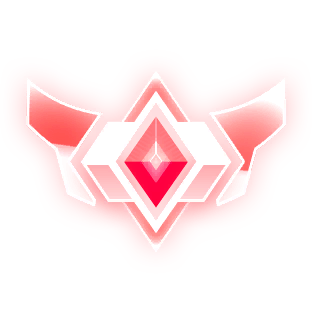
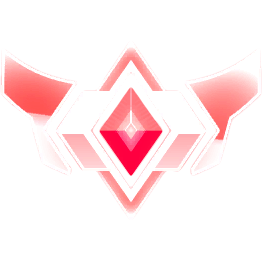
Returning online games for last two days to web page JS
Returning online games for last two days to web page JS
Updated MMR chart to show Rank Div Level
Updated icons / assets to better quality
Fixed JS methods that should be properties (getters) to make them such

Resolves #17
Resolves #14
Resolves #15

Changed region(s): [[0.0, 0.1832, 1.0, 0.8244]]

diff --git a/app/static/model.js b/app/static/model.js
@@ -8,32 +8,137 @@ const GameState = {
     'GAME_ENDED': 2
 }
 
-const RankTier = {
-    22: 'Supersonic Legend',
-    21: 'GrandChamp III',
-    20: 'GrandChamp II',
-    19: 'GrandChamp I',
-    18: 'Champ III',
-    17: 'Champ II',
-    16: 'Champ I',
-    15: 'Diamond III',
-    14: 'Diamond II',
-    13: 'Diamond I',
-    12: 'Platinum III',
-    11: 'Platinum II',
-    10: 'Platinum I',
-    9: 'Gold III',
-    8: 'Gold II',
-    7: 'Gold I',
-    6: 'Silver III',
-    5: 'Silver II',
-    4: 'Silver I',
-    3: 'Bronze III',
-    2: 'Bronze II',
-    1: 'Bronze I',
-    0: 'Unranked'
+const RankTierMap = {
+    22: {
+        name: 'Supersonic Legend',
+        img_name: 'supersonic_legend'
+    },
+    21: {
+        name: 'GrandChamp III',
+        img_name: 'grand_champ_III'
+    },
+    20: {
+        name: 'GrandChamp II',
+        img_name: 'grand_champ_II'
+    },
+    19: {
+        name: 'GrandChamp I',
+        img_name: 'grand_champ_I'
+    },
+    18: {
+        name: 'Champion III',
+        img_name: 'champion_III'
+    },
+    17: {
+        name: 'Champion II',
+        img_name: 'champion_II'
+    },
+    16: {
+        name: 'Champion I',
+        img_name: 'champion_I'
+    },
+    15: {
+        name: 'Diamond III',
+        img_name: 'diamond_III'
+    },
+    14: {
+        name: 'Diamond II',
+        img_name: 'diamond_II'
+    },
+    13: {
+        name: 'Diamond I',
+        img_name: 'diamond_I'
+    },
+    12: {
+        name: 'Platinum III',
+        img_name: 'platinum_III'
+    },
+    11: {
+        name: 'Platinum II',
+        img_name: 'platinum_II'
+    },
+    10: {
+        name: 'Platinum I',
+        img_name: 'platinum_I'
+    },
+    9: {
+        name: 'Gold III',
+        img_name: 'gold_III'
+    },
+    8: {
+        name: 'Gold II',
+        img_name: 'gold_II'
+    },
+    7: {
+        name: 'Gold I',
+        img_name: 'gold_I'
+    },
+    6: {
+        name: 'Silver III',
+        img_name: 'silver_III'
+    },
+    5: {
+        name: 'Silver II',
+        img_name: 'silver_II'
+    },
+    4: {
+        name: 'Silver I',
+        img_name: 'silver_I'
+    },
+    3: {
+        name: 'Bronze III',
+        img_name: 'bronze_III'
+    },
+    2: {
+        name: 'Bronze II',
+        img_name: 'bronze_II'
+    },
+    1: {
+        name: 'Bronze I',
+        img_name: 'bronze_I'
+    },
+    0: {
+        name: 'Unranked',
+        img_name: 'unranked'
+    }
 }
 
+class SkillRank {
+    /** @type int */
+    tier
+    /** @type int */
+    division
+    /** @type int */
+    matches_played
+    get fullRank() {
+        return `${this.tierString} Div ${this.divString}`
+    }
+    get image_thumbnail() {
+        const img = RankTierMap[this.tier].img_name
+        return `/static/images/${img}_small.webp`
+    }
+
+    get image() {
+        const img = RankTierMap[this.tier].img_name
+        return `/static/images/${img}.webp`
+    }
+    get divString() {
+        switch(this.division) {
+            case 0:
+                return "I"
+            case 1:
+                return "II"
+            case 2:
+                return "III"
+            case 3:
+                return "IV"
+        }
+    }
+
+    get tierString() {
+        return `${RankTierMap[this.tier].name}`
+    }
+}
 const PlaylistIds = {
      /** @type {Number} */
     'RankedTeamDoubles': 11
@@ -61,6 +166,18 @@ class OnlineGame {
     primary_bakkes_player_id
     game_state
 
+    get primaryPlayer() {
+        for (/** @type Player */const player of this.roster) {
+            if (player.is_primary_player) {
+                return player
+            }
+        }
+        return null
+    }
+    get formattedStartTime() {
+        const startDate = new Date(this.start_timestamp * 1000)
+        return this.formatAMPM(startDate)
+    }
     /**
      *
      * @param {number} teamNumber
@@ -89,6 +206,15 @@ class OnlineGame {
         })
         return team_score
     }
+    formatAMPM(date) {
+        let hours = date.getHours();
+        let minutes = date.getMinutes();
+        let ampm = hours >= 12 ? 'pm' : 'am';
+        hours = hours % 12;
+        hours = hours ? hours : 12; // the hour '0' should be '12'
+        minutes = minutes < 10 ? '0'+minutes : minutes;
+        return hours + ':' + minutes + ' ' + ampm;
+    }
 }
 class Player {
     name
@@ -106,4 +232,15 @@ class Player {
     mmrAsInt() {
         return Math.round(this.mmr)
     }
+
+    skill_rank
+
+    /**
+     *
+     * @returns {SkillRank}
+     */
+    get skillRank() {
+        return Object.assign(new SkillRank(), this.skill_rank);
+    }
+
 }

diff --git a/app/static/mmr_chart.js b/app/static/mmr_chart.js
@@ -1,3 +1,4 @@
+let cached_online_games = []
 function newMMRChart (ctx) {
     return new Chart(ctx, {
         type: 'line',
@@ -12,20 +13,67 @@ function newMMRChart (ctx) {
                 line: {
                     tension: 0.25
                 }
+            },
+             plugins: {
+                tooltip: {
+                    callbacks: {
+                        label: tooltipLabel,
+                        beforeTitle: tooltipBeforeTitle
+                    },
+                    displayColors: false
+                }
             }
-
         }
     });
 }
 
+function tooltipLabel(context) {
+    /** @type OnlineGame */
+    const game = cached_online_games[context.dataIndex]
+    return [
+        "Rank: " + game.primaryPlayer.skillRank.fullRank,
+        "MMR:  " + game.primaryPlayer.mmrAsInt()
+    ]
+}
+
+function tooltipBeforeTitle(context) {
+    return "Game Time"
+}
 function fetchMMRChartData(data_url) {
+    cached_online_games = []
     fetch(data_url)
         .then(res => res.json())
-        .then(data => {
-            if (data) {
-                const chart_data = data['chart_data']
-                myChart.data.labels = chart_data['time']
-                myChart.data.datasets[0].data = chart_data['mmr']
+        .then(onlineGames => {
+            if (onlineGames) {
+                let game_times = []
+                let labels = []
+                let point_images = []
+                let point_radius
+                for (const game_json of onlineGames) {
+                    /** @type OnlineGame */
+                    const game = OnlineGame.from(game_json)
+                    cached_online_games.push(game)
+                    /** @type Player */
+                    const primaryPlayer = game.primaryPlayer
+                    game_times.push(game.formattedStartTime)
+                    labels.push(game.primary_player_ending_mmr)
+                    let image = new Image(15, 15)
+                    image.src = primaryPlayer.skillRank.image_thumbnail
+                    point_images.push(
+                        image
+                    )
+               }
+                /** @type OnlineGame */
+                const last_game = cached_online_games.at(-1)
+                myChart.data.labels = game_times
+                myChart.data.datasets[0].data = labels
+                myChart.data.datasets[0].label = "Current Rank: " + last_game.primaryPlayer.skillRank.fullRank
+                myChart.data.datasets[0].pointStyle = point_images
+                myChart.data.datasets[0].pointRadius = 10
+                myChart.options.plugins.legend.labels.pointStyle = point_images.at(-1)
+                myChart.options.plugins.legend.labels.pointStyleWidth = 20
+                myChart.options.plugins.legend.labels.usePointStyle = true
+                myChart.options.plugins.tooltip.usePointStyle = true
                 myChart.update()
             }
         })

diff --git a/app/main.py b/app/main.py
@@ -72,22 +72,13 @@ async def create_online_game(game: OnlineGame):
     return {"success": "true"}
 
 
-@app.get("/get_todays_mmr")
-async def get_todays_mmr():
+@app.get("/todays_games")
+async def todays_games():
     midnight = datetime.combine(datetime.today(), time.min)
-    todays_games: List[OnlineGame] = await OnlineGame.find(
+    the_games: List[OnlineGame] = await OnlineGame.find(
         OnlineGame.start_timestamp > (midnight.timestamp() - 24 * 60 * 60)
     ).to_list()
-    chart_data = {
-        "time": [],
-        "mmr": []
-    }
-    for game in todays_games:
-        arrow_time = arrow.get(game.end_timestamp)
-        arrow_time = arrow_time.to('US/Pacific')
-        chart_data["time"].append(arrow_time.format('h:mm a'))
-        chart_data["mmr"] .append(game.primary_player_ending_mmr)
-    return {"chart_data": chart_data}
+    return the_games
 
 
 if __name__ == "__main__":

diff --git a/app/model.py b/app/model.py
@@ -93,6 +93,13 @@ class OnlineGame(Document):
         midnight = datetime.combine(datetime.today(), time.min)
         return OnlineGame.find(OnlineGame.start_timestamp > (midnight.timestamp() - 24*60*60))
 
+    def get_primary_player(self) -> Optional[Player]:
+        player: Player
+        for player in self.roster:
+            if player.is_primary_player:
+                return player
+        return None
+
 
 class Chart(BaseModel):
     labels: List
